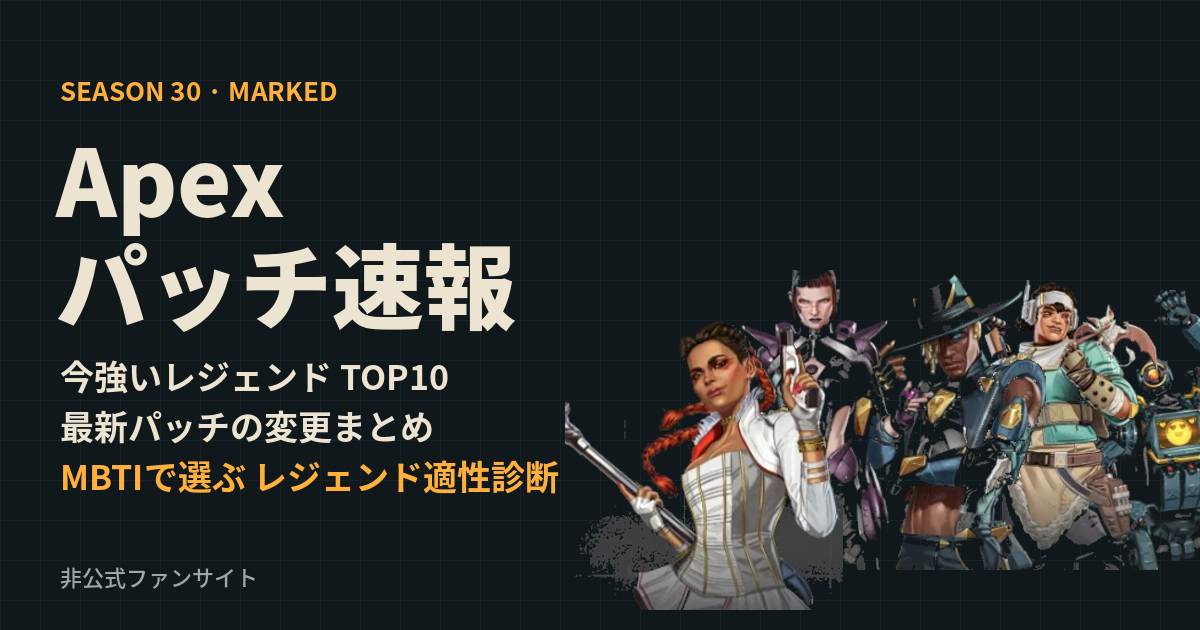
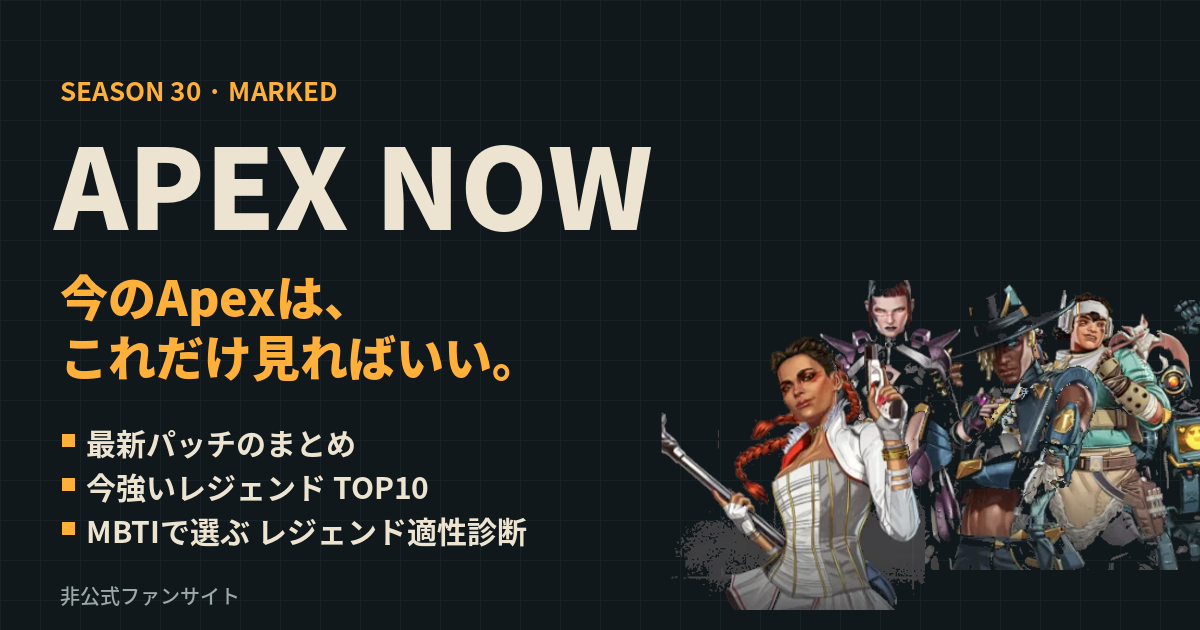
Add files via upload

diff --git a/index.html b/index.html
@@ -2,12 +2,12 @@
 <html lang="ja">
 <head>
 <meta charset="utf-8">
-<meta http-equiv="Content-Security-Policy" content="default-src 'self'; script-src 'sha256-xyH78yvLpa3djbQXO0u1s8D4smDwleX4gWwWivcqEUw=' 'sha256-psa6JNhljB1tRSObZvOiDwrrejZm0TaGK7nesAJIWhQ='; style-src 'self' 'unsafe-inline' https://fonts.googleapis.com; font-src https://fonts.gstatic.com; img-src 'self' data: blob:; connect-src 'self'; object-src 'none'; base-uri 'none'; form-action 'none'">
+<meta http-equiv="Content-Security-Policy" content="default-src 'self'; script-src 'sha256-rjg2DQrkEdeekBfh/SHjqc581T3K3JhnLSsGWeYgzE8=' 'sha256-m+O0WWFSM3DNQjJ2qcIFaV2pTJ/6OD9Lva8Dx0e+Ksc='; style-src 'self' 'unsafe-inline' https://fonts.googleapis.com; font-src https://fonts.gstatic.com; img-src 'self' data: blob:; connect-src 'self'; object-src 'none'; base-uri 'none'; form-action 'none'">
 <meta name="referrer" content="strict-origin-when-cross-origin">
 <meta name="viewport" content="width=device-width,initial-scale=1,viewport-fit=cover">
-<meta name="description" content="Apex Legends の最新パッチ、武器・レジェンドの調整、今強いレジェンドTOP10、MBTIと8つの質問で選ぶレジェンド適性診断。">
-<meta property="og:title" content="Apex パッチ速報">
-<meta property="og:description" content="今強いレジェンドTOP10、最新パッチの変更まとめ、MBTIで選ぶレジェンド適性診断。">
+<meta name="description" content="今のApexは、これだけ見ればいい。Apex Legends の最新パッチまとめ、今強いレジェンドTOP10、MBTIと8つの質問で選ぶレジェンド適性診断。">
+<meta property="og:title" content="APEX NOW｜今のApexは、これだけ見ればいい。">
+<meta property="og:description" content="最新パッチのまとめ、今強いレジェンドTOP10、あなたに合うレジェンドがわかる適性診断。">
 <meta property="og:type" content="website">
 <meta name="twitter:card" content="summary_large_image">
 <meta property="og:url" content="https://rocketrrrrrr.github.io/rocket/">
@@ -15,11 +15,11 @@
 <meta property="og:image:width" content="1200">
 <meta property="og:image:height" content="630">
 <meta property="og:locale" content="ja_JP">
-<meta property="og:site_name" content="Apex パッチ速報">
+<meta property="og:site_name" content="APEX NOW">
 <link rel="canonical" href="https://rocketrrrrrr.github.io/rocket/">
 <link rel="icon" href="favicon.svg" type="image/svg+xml">
 <link rel="apple-touch-icon" href="apple-touch-icon.png">
-<title>Apex パッチ速報</title>
+<title>APEX NOW｜今のApexは、これだけ見ればいい。</title>
 <link rel="preconnect" href="https://fonts.googleapis.com">
 <link rel="stylesheet" href="https://fonts.googleapis.com/css2?family=Chakra+Petch:wght@500;700&family=Dela+Gothic+One&family=Zen+Kaku+Gothic+New:wght@400;500;700&display=swap">
 <style>
@@ -37,7 +37,7 @@ body{margin:0;background:var(--bg);color:var(--ink);
   font-size:15px;line-height:1.65;-webkit-tap-highlight-color:transparent;
   background-image:linear-gradient(transparent 0 calc(100% - 1px),rgba(255,255,255,.025) 0),linear-gradient(90deg,transparent 0 calc(100% - 1px),rgba(255,255,255,.025) 0);
   background-size:28px 28px}
-.wrap{max-width:760px;margin:0 auto;padding-inline:16px;padding-block:18px 56px}
+.wrap{max-width:1080px;margin:0 auto;padding-inline:16px;padding-block:18px 56px}
 h1,h2{font-family:"Dela Gothic One","Zen Kaku Gothic New",sans-serif;font-weight:400;margin:0;text-wrap:balance}
 h1{font-size:clamp(26px,7vw,36px);line-height:1.2}
 h2{font-size:19px;line-height:1.4}
@@ -52,6 +52,11 @@ button:focus-visible,input:focus-visible,select:focus-visible{outline:2px solid 
 .stack{display:flex;flex-direction:column;gap:14px}
 
 header{display:flex;flex-direction:column;gap:10px;padding-bottom:14px}
+header .brand{font-family:"Chakra Petch","Dela Gothic One",sans-serif;font-weight:700;letter-spacing:.06em;font-size:clamp(34px,9vw,48px);line-height:1}
+header .tagline{font-family:"Dela Gothic One","Zen Kaku Gothic New",sans-serif;font-size:clamp(17px,4.6vw,21px);color:var(--amber);line-height:1.4}
+header .subline{font-size:14px;color:var(--mute);max-width:60ch}
+header .hero-go{align-self:flex-start;display:inline-flex;align-items:center;min-height:40px;padding:8px 14px;border:1px solid var(--amber);border-radius:8px;color:var(--amber);font-weight:700;font-size:14px;text-decoration:none}
+header .hero-go:hover{background:color-mix(in srgb,var(--amber) 12%,transparent)}
 .status{display:flex;flex-wrap:wrap;gap:8px 16px;font-size:13px;color:var(--mute)}
 .status b{color:var(--ink);font-weight:500}
 .dot{display:inline-block;width:8px;height:8px;border-radius:50%;background:var(--buff);margin-right:6px;vertical-align:1px}
@@ -133,6 +138,22 @@ nav{position:sticky;top:env(safe-area-inset-top,0px);z-index:5;background:var(--
 .pt.card{--w:84px}
 @media (max-width:420px){.pt.lg{--w:76px}.pt{--w:48px}.pt.card{--w:72px}}
 .lg-head{display:flex;align-items:center;gap:12px;min-width:0}
+
+.rank-layout{display:grid;grid-template-columns:minmax(0,1fr);gap:18px;align-items:start}
+@media (min-width:900px){.rank-layout{grid-template-columns:minmax(0,1fr) 330px}.comps{position:sticky;top:calc(env(safe-area-inset-top,0px) + 72px)}}
+.comps{display:flex;flex-direction:column;gap:10px;background:var(--panel);border:1px solid var(--line);border-radius:var(--r);padding:14px}
+.comps h2{font-size:17px}
+.comps .scope{font-size:12px;color:var(--mute)}
+.comp{display:flex;flex-direction:column;gap:8px;background:var(--panel2);border-radius:8px;padding:10px 12px}
+.comp-top{display:flex;align-items:center;justify-content:space-between;gap:8px}
+.comp-tag{font-size:11px;font-weight:700;padding:2px 8px;border-radius:4px;background:color-mix(in srgb,var(--amber) 18%,transparent);color:var(--amber);white-space:nowrap}
+.comp-no{font-family:"Chakra Petch",monospace;font-weight:700;color:var(--mute);font-size:13px}
+.comp-mem{display:grid;grid-template-columns:repeat(3,minmax(0,1fr));gap:6px}
+.comp-mem .m{display:flex;flex-direction:column;align-items:center;gap:4px;min-width:0}
+.comp-mem .m b{font-size:12px;font-weight:700;text-align:center;line-height:1.3}
+.comp-mem .pt{--w:52px}
+.comp-stat{font-size:12px;color:var(--ink);font-variant-numeric:tabular-nums}
+.comp-note{font-size:12px;color:var(--mute)}
 .foot{font-size:12px;color:var(--mute);margin-top:28px;display:flex;flex-direction:column;gap:4px}
 @media (max-width:420px){
   .rank{grid-template-columns:28px auto 1fr;gap:10px}
@@ -252,7 +273,10 @@ nav{position:sticky;top:env(safe-area-inset-top,0px);z-index:5;background:var(--
 <div class="wrap">
   <header>
     <div class="eyebrow" id="seasonLine">Season 30 · Marked · Split 2</div>
-    <h1>Apex パッチ速報</h1>
+    <h1 class="brand">APEX NOW</h1>
+    <p class="tagline">今のApexは、これだけ見ればいい。</p>
+    <p class="subline">最新パッチのまとめと、今強いレジェンドTOP10をパッチが来るたびに更新。さらに、MBTIと8つの質問で「あなたが使うべきレジェンド」も診断できます。</p>
+    <a class="hero-go" href="#quiz" data-go="quiz">あなたのレジェンドを診断する ▶</a>
     <div class="status">
       <span><span class="dot off" id="liveDot"></span><span id="liveText">読み込み中</span></span>
       <span>最終チェック <b class="mono" id="checked">—</b></span>
@@ -269,7 +293,7 @@ nav{position:sticky;top:env(safe-area-inset-top,0px);z-index:5;background:var(--
     <button class="tab" role="tab" data-tab="quiz">適性診断</button>
   </div></nav>
 
-  <main id="view"><div class="stack">
+  <main id="view"><div class="rank-layout"><div class="stack">
     <div class="patch-head"><h2>今強いレジェンド TOP10</h2><span class="src mono">2026/09/17 時点</span></div>
     <div class="rank-list"><div class="rank" style="--cls:var(--c-support)">
         <div class="no">1</div>
@@ -327,7 +351,33 @@ nav{position:sticky;top:env(safe-area-inset-top,0px);z-index:5;background:var(--
     <div><div class="tierblock"><span class="tier S+">S+</span><div class="names"><span class="name-chip">30-30リピーター</span><span class="name-chip">クレーバー</span><span class="name-chip">L-STAR</span></div></div><div class="tierblock"><span class="tier S">S</span><div class="names"><span class="name-chip">チャージライフル</span><span class="name-chip">トリプルテイク</span><span class="name-chip">ボセックボウ</span></div></div><div class="tierblock"><span class="tier A+">A+</span><div class="names"><span class="name-chip">R-301カービン</span><span class="name-chip">プラウラー</span><span class="name-chip">ディヴォーション</span><span class="name-chip">ネメシス</span><span class="name-chip">G7スカウト</span></div></div><div class="tierblock"><span class="tier A">A</span><div class="names"><span class="name-chip">ウィングマン</span><span class="name-chip">P2020</span><span class="name-chip">RE-45</span></div></div></div></div>
     <div class="card stack"><h2>今のメタ</h2><ul class="notes"><li>ローバ はプレデター帯でピック率24%。ルートが減った今シーズンは物資を確保できる価値が高い</li><li>アクセル は Split 2 でスタンが大幅に短縮されたが、機動力で上位を維持</li><li>シア は戦術でシールド・壁・蘇生などの発動を止められる点が評価されている</li><li>遠距離武器（30-30リピーター / チャージライフル / トリプルテイク）が強い環境。Corrupted アタッチメントで構成の選び方が変わった</li></ul></div>
     <button class="tab" data-go="quiz" style="border:1px solid var(--line);color:var(--amber);align-self:flex-start">あなたに合うレジェンドを診断する ▶</button>
-  </div></main>
+  </div><aside class="comps" aria-label="上位帯のメタ構成">
+    <div class="eyebrow">Ranked Meta</div>
+    <h2>上位帯で多い構成</h2>
+    <p class="scope">プレデター帯の集計。マスター帯だけの集計は未確認です（2026/09/27 時点）</p>
+    <div class="comp">
+      <div class="comp-top"><span class="comp-no">#1</span><span class="comp-tag">最多</span></div>
+      <div class="comp-mem"><div class="m"><span class="pt " style="--cls:var(--c-skirm)"><img src="img/axle.webp" alt="アクセル" loading="lazy"></span><b>アクセル</b></div><div class="m"><span class="pt " style="--cls:var(--c-support)"><img src="img/loba.webp" alt="ローバ" loading="lazy"></span><b>ローバ</b></div><div class="m"><span class="pt " style="--cls:var(--c-skirm)"><img src="img/pathfinder.webp" alt="パスファインダー" loading="lazy"></span><b>パスファインダー</b></div></div>
+      <div class="comp-stat">1,639部隊・平均 +54.6 RP/試合</div>
+      <div class="comp-note">アクセルとパスファインダーで部隊ごと動き、ローバで物資をそろえる</div>
+    </div><div class="comp">
+      <div class="comp-top"><span class="comp-no">#2</span><span class="comp-tag">RP最高</span></div>
+      <div class="comp-mem"><div class="m"><span class="pt " style="--cls:var(--c-skirm)"><img src="img/axle.webp" alt="アクセル" loading="lazy"></span><b>アクセル</b></div><div class="m"><span class="pt " style="--cls:var(--c-support)"><img src="img/loba.webp" alt="ローバ" loading="lazy"></span><b>ローバ</b></div><div class="m"><span class="pt " style="--cls:var(--c-recon)"><img src="img/vantage.webp" alt="ヴァンテージ" loading="lazy"></span><b>ヴァンテージ</b></div></div>
+      <div class="comp-stat">1,378部隊・平均 +71.9 RP/試合</div>
+      <div class="comp-note">遠距離武器が強い環境で、ヴァンテージが削りと索敵を担当</div>
+    </div><div class="comp">
+      <div class="comp-top"><span class="comp-no">#3</span><span class="comp-tag">野良向け</span></div>
+      <div class="comp-mem"><div class="m"><span class="pt " style="--cls:var(--c-skirm)"><img src="img/axle.webp" alt="アクセル" loading="lazy"></span><b>アクセル</b></div><div class="m"><span class="pt " style="--cls:var(--c-support)"><img src="img/loba.webp" alt="ローバ" loading="lazy"></span><b>ローバ</b></div><div class="m"><span class="pt " style="--cls:var(--c-recon)"><img src="img/seer.webp" alt="シア" loading="lazy"></span><b>シア</b></div></div>
+      <div class="comp-stat">1,007部隊・平均 +60.4 RP/試合</div>
+      <div class="comp-note">シアの索敵で情報を先に取る。野良でも組みやすい定番</div>
+    </div><div class="comp">
+      <div class="comp-top"><span class="comp-no">#4</span><span class="comp-tag">固定向け</span></div>
+      <div class="comp-mem"><div class="m"><span class="pt " style="--cls:var(--c-skirm)"><img src="img/axle.webp" alt="アクセル" loading="lazy"></span><b>アクセル</b></div><div class="m"><span class="pt " style="--cls:var(--c-support)"><img src="img/loba.webp" alt="ローバ" loading="lazy"></span><b>ローバ</b></div><div class="m"><span class="pt " style="--cls:var(--c-recon)"><img src="img/sparrow.webp" alt="スパロー" loading="lazy"></span><b>スパロー</b></div></div>
+      
+      <div class="comp-note">シアの代わりにスパロー。連携の取れる固定パーティで採用が多い</div>
+    </div>
+    <p class="scope">出典：<a href="https://apexranked.com/meta" target="_blank" rel="noopener noreferrer">ApexRanked（プレデター826人の集計）</a>・<a href="https://lfcarry.com/guides/apex-legends-tier-list" target="_blank" rel="noopener noreferrer">LFCarry ティアリスト</a></p>
+  </aside></div></main>
 
   <div class="foot">
     <p>数値は公式パッチノートを優先し、強さランキングは外部のティアリストをもとにまとめています。各項目の「出典」から一次情報を確認できます。</p>
@@ -693,7 +743,7 @@ async function makeCard(L,cls,shareText,siteUrl){
   const sh=g.createLinearGradient(0,0,760,0);sh.addColorStop(0,"rgba(16,24,28,.92)");sh.addColorStop(.62,"rgba(16,24,28,.78)");sh.addColorStop(1,"rgba(16,24,28,0)");g.fillStyle=sh;g.fillRect(0,0,760,H);
   const disp='"Dela Gothic One","Zen Kaku Gothic New",sans-serif', body='"Zen Kaku Gothic New","Hiragino Sans","Noto Sans JP",sans-serif', mono='"Chakra Petch",monospace';
   g.textBaseline="top";
-  g.fillStyle=amber;g.font=`700 34px ${mono}`;g.fillText("MY APEX LEGEND / 適性診断",70,80);
+  g.fillStyle=amber;g.font=`700 34px ${mono}`;g.fillText("APEX NOW / レジェンド適性診断",70,80);
   g.fillStyle="#9aa8a6";g.font=`500 36px ${mono}`;g.fillText(L.en.toUpperCase(),70,170);
   g.fillStyle="#ece3d0";let fs=150;g.font=`400 ${fs}px ${disp}`;while(g.measureText(L.n).width>620&&fs>70){fs-=6;g.font=`400 ${fs}px ${disp}`;}
   g.fillText(L.n,66,220);
@@ -752,7 +802,7 @@ function header(){
 
 function renderRank(){
   const m=D.meta; if(!m||!m.ranking) return `<p class="empty">ランキングはまだありません</p>`;
-  return `<div class="stack">
+  return `<div class="rank-layout"><div class="stack">
     <div class="patch-head"><h2>今強いレジェンド TOP10</h2><span class="src mono">${fmtDate(m.updated)} 時点</span></div>
     <div class="rank-list">${m.ranking.map(r=>{
       const L=byId(D.legends,r.id)||{ja:r.id,cls:""}; const c=CLS[L.cls]||["","--line"];
@@ -765,7 +815,22 @@ function renderRank(){
     <p class="banner">${esc(m.rankingBasis||"")}　出典：${(m.sourceUrls||[]).filter(safeUrl).map((u,i)=>`<a href="${esc(safeUrl(u))}" target="_blank" rel="noopener noreferrer">${esc(m.source||"ティアリスト")}${m.sourceUrls.length>1?` ${i+1}`:""}</a>`).join("・")}</p>
     ${renderMeta()}
     <button class="tab" data-go="quiz" style="border:1px solid var(--line);color:var(--amber);align-self:flex-start">あなたに合うレジェンドを診断する ▶</button>
-  </div>`;
+  </div>${renderComps()}</div>`;
+}
+function renderComps(){
+  const m=D.meta, cs=m&&m.comps; if(!cs||!cs.length) return "";
+  return `<aside class="comps" aria-label="上位帯のメタ構成">
+    <div class="eyebrow">Ranked Meta</div>
+    <h2>上位帯で多い構成</h2>
+    <p class="scope">${esc(m.compsScope||"")}${m.compsUpdated?`（${fmtDate(m.compsUpdated)} 時点）`:""}</p>
+    ${cs.map((c,i)=>`<div class="comp">
+      <div class="comp-top"><span class="comp-no">#${i+1}</span>${c.tag?`<span class="comp-tag">${esc(c.tag)}</span>`:""}</div>
+      <div class="comp-mem">${(c.legends||[]).map(id=>{const L=byId(D.legends,id)||{id,ja:id,cls:""};return `<div class="m">${avatar({...L,id})}<b>${esc(L.ja)}</b></div>`}).join("")}</div>
+      ${c.stat?`<div class="comp-stat">${esc(c.stat)}</div>`:""}
+      ${c.note?`<div class="comp-note">${esc(c.note)}</div>`:""}
+    </div>`).join("")}
+    ${(m.compsSources||[]).filter(x=>x&&safeUrl(x.url)).length?`<p class="scope">出典：${m.compsSources.filter(x=>x&&safeUrl(x.url)).map(x=>`<a href="${esc(safeUrl(x.url))}" target="_blank" rel="noopener noreferrer">${esc(x.name||"出典")}</a>`).join("・")}</p>`:""}
+  </aside>`;
 }
 function renderMeta(){
   const m=D.meta; if(!m) return "";
@@ -844,6 +909,11 @@ function render(){
   bind("q","q");bind("dir","dir");bind("cls","cls");bind("cat","cat");
   if(focusId==="q"){const q=document.getElementById("q"); if(q){q.focus(); try{q.setSelectionRange(pos,pos)}catch(e){}}}
 }
+document.addEventListener("click",e=>{
+  const go=e.target.closest("[data-go]"); if(!go) return;
+  e.preventDefault(); tab=go.dataset.go; try{localStorage.setItem("apx-tab",tab)}catch(_){}
+  render(); const nav=document.querySelector("nav"); if(nav) nav.scrollIntoView({block:"start"});
+});
 document.getElementById("tabs").addEventListener("click",e=>{
   const b=e.target.closest(".tab"); if(!b) return; tab=b.dataset.tab;
   try{localStorage.setItem("apx-tab",tab)}catch(e){}
